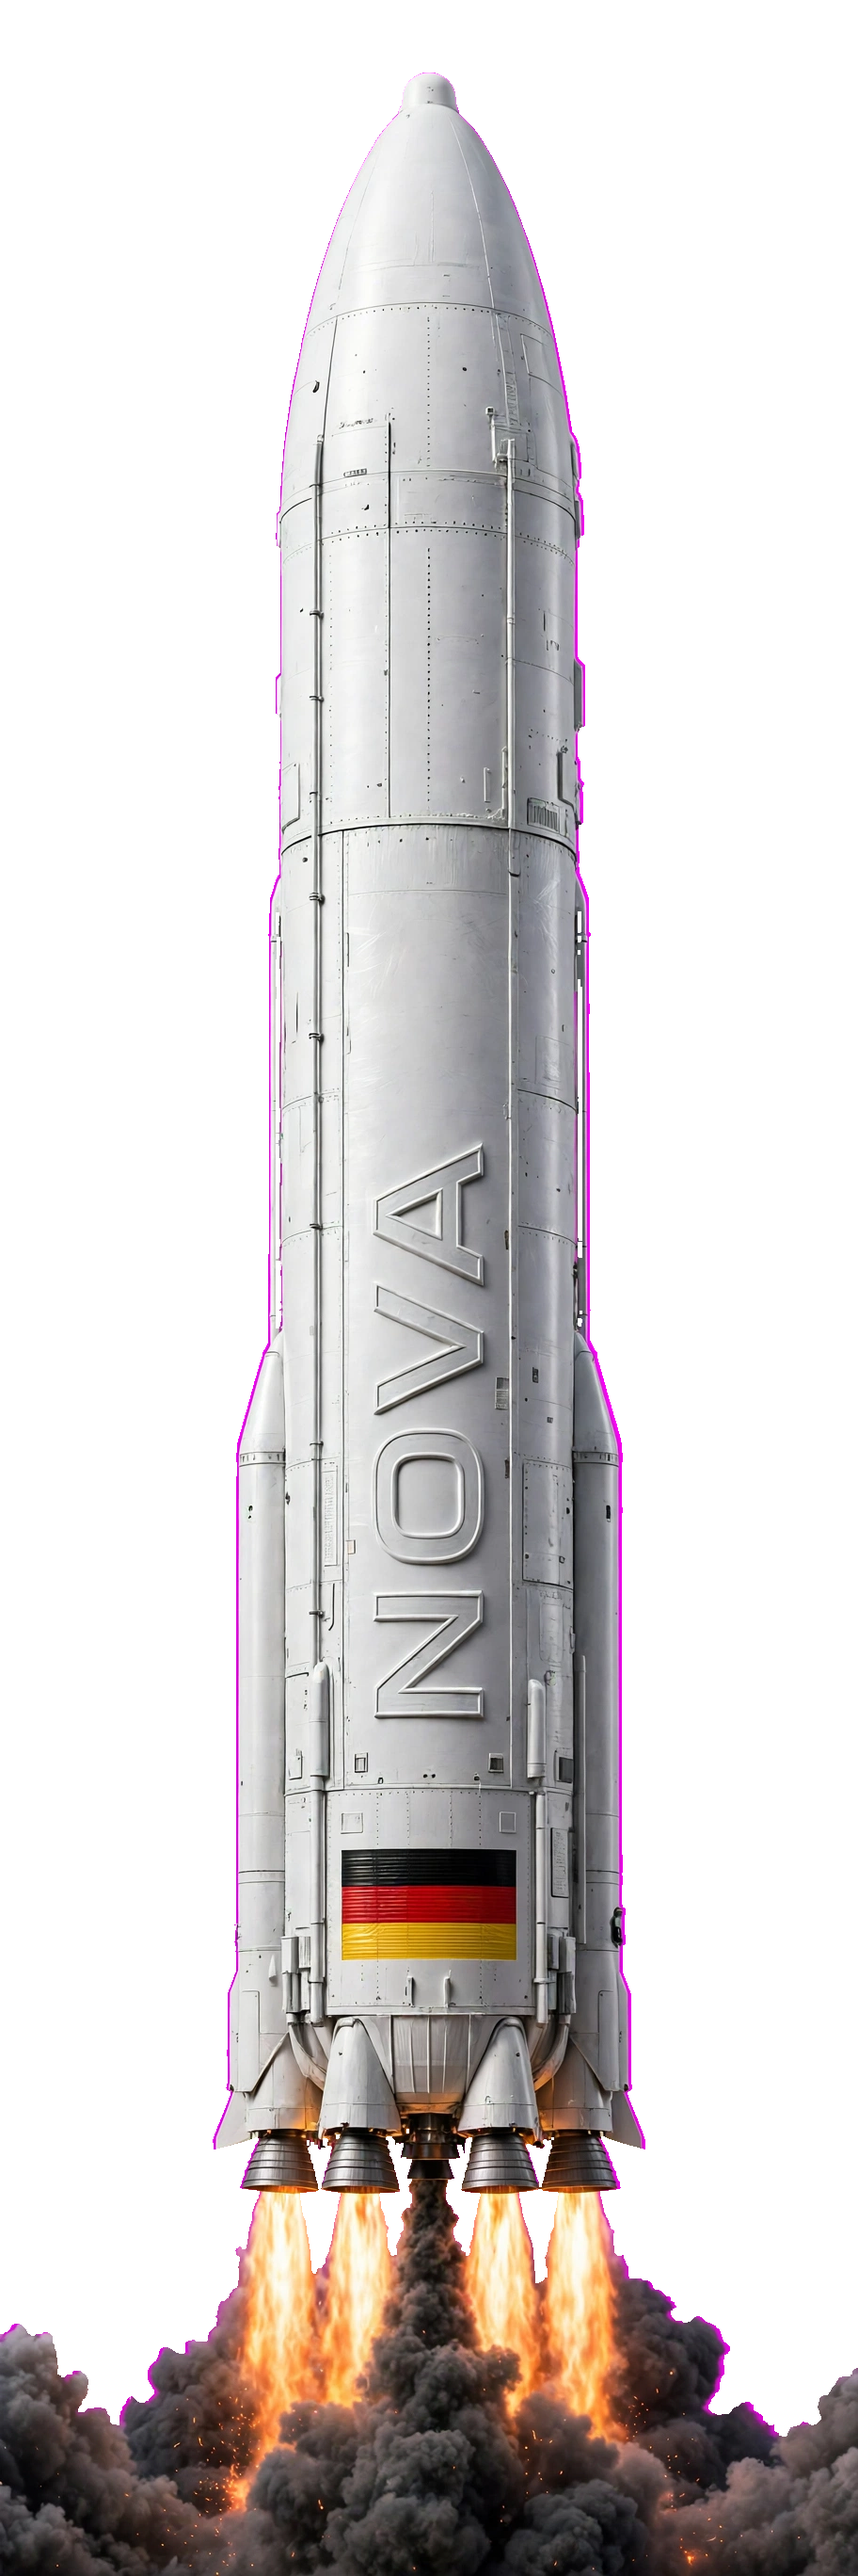
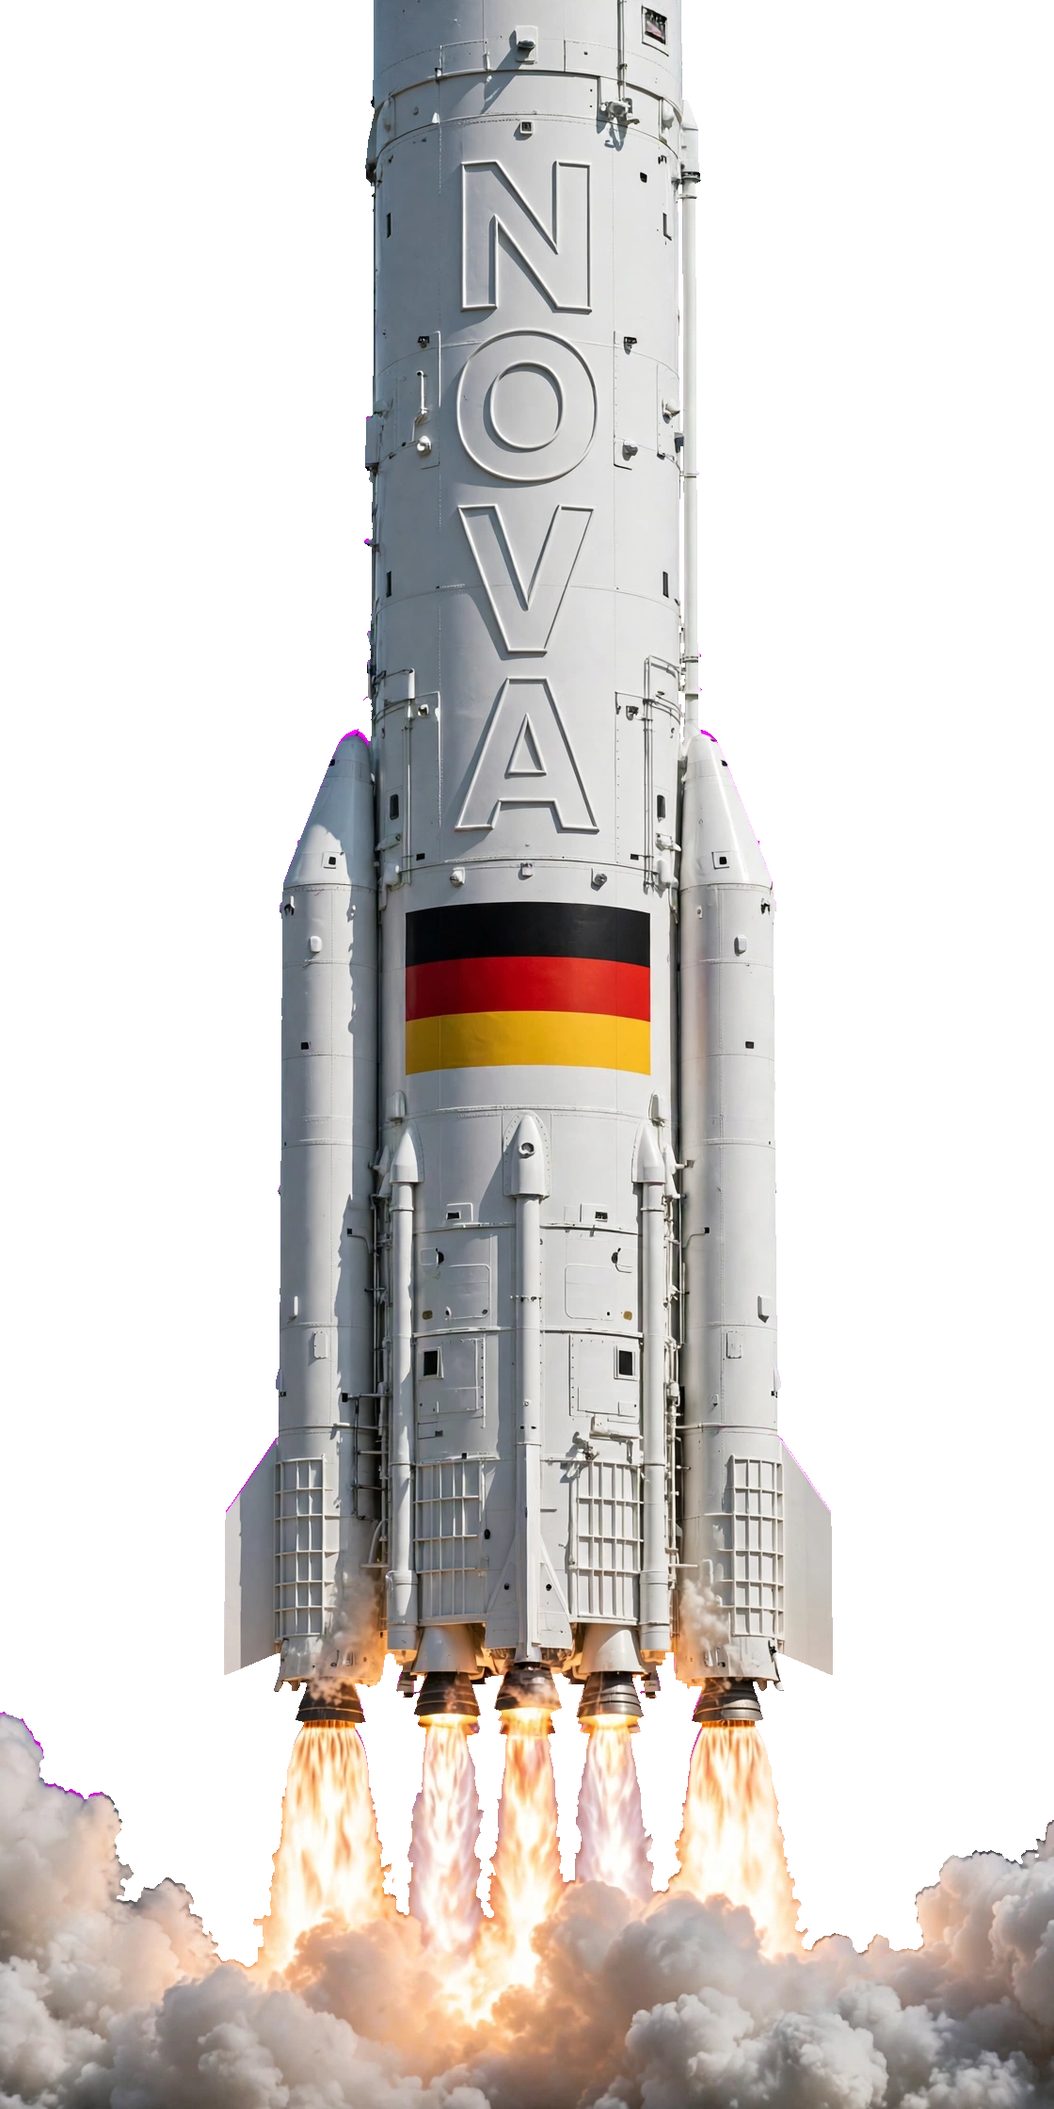
nova-v39: Rocket V3, left:-35px top:2% width:200px, sharper text
- Rocket V3: NOVA + flag higher up, more detail
- #nova-rocket: left:-35px top:2% width:200px
- .login-card bg: rgba(12,10,32,0.28)
- .login-h1: font-weight:800, full black text-shadow
- .login-h2: color rgba(255,255,255,0.92), opacity:1

Claude-Session: https://claude.ai/code/session_01AVNYYeaAjLedAta5eir4VY

diff --git a/css/screens/login.css b/css/screens/login.css
@@ -4,7 +4,7 @@
 
 :root {
   --login-bg:          #000000;
-  --login-card-bg:     rgba(15,10,40,0.22);
+  --login-card-bg:     rgba(12,10,32,0.28);
   --login-card-border: rgba(200,180,255,0.28);
   --login-text-1:      #ffffff;
   --login-text-2:      rgba(255,255,255,0.65);
@@ -123,9 +123,9 @@
 /* ── NOVA rocket overlay ─────────────────────────────── */
 #nova-rocket {
   position: fixed;
-  left: -18px;
-  top: 6%;
-  width: 185px;
+  left: -35px;
+  top: 2%;
+  width: 200px;
   height: auto;
   z-index: 1;
   pointer-events: none;
@@ -152,14 +152,22 @@
 
 /* ── Text readability over background ───────────────── */
 .login-eyebrow,
-.login-h1,
-.login-h2,
 .login-subtitle,
 .login-micro,
 .login-footer {
   text-shadow: 0 2px 12px rgba(0,0,0,0.85), 0 0 24px rgba(0,0,0,0.55);
 }
-.login-h1 { color: #fff; }
+.login-h1 {
+  color: #ffffff;
+  font-weight: 800;
+  text-shadow: 0 2px 20px rgba(0,0,0,1), 0 0 40px rgba(0,0,0,0.9);
+}
+.login-h2 {
+  color: rgba(255,255,255,0.92);
+  font-weight: 600;
+  text-shadow: 0 2px 12px rgba(0,0,0,0.9), 0 0 20px rgba(0,0,0,0.8);
+  opacity: 1;
+}
 
 /* ── Eyebrow ─────────────────────────────────────────── */
 .login-eyebrow {

diff --git a/sw.js b/sw.js
@@ -4,7 +4,7 @@
    Responds to SKIP_WAITING message from the page.
    ═══════════════════════════════════════════════════════ */
 
-const CACHE = 'nova-v38';
+const CACHE = 'nova-v39';
 
 const STATIC_CSS = [
   '/support-pool-/css/tokens.css',
